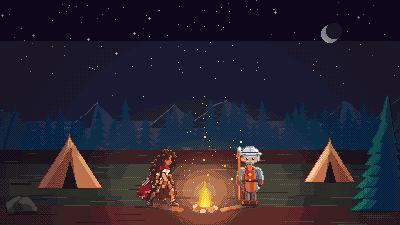
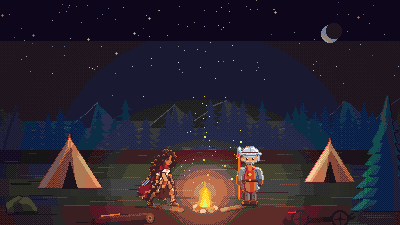
Cenas de história: primeiro plano no capítulo 1 e ilustração na metade do cartão no celular

Changed region(s): [[0.69, 0.9333, 0.9, 1.0], [0.21, 0.9333, 0.39, 1.0], [0.9, 0.9022, 0.93, 0.9333]]

diff --git a/src/art/storyScenes.js b/src/art/storyScenes.js
@@ -619,6 +619,17 @@ function scene1(sc) {
   sc.hero(160, 206, { dir: 'right', weapon: 'back' });
   sc.npc('vigia', 250, 205, { flip: true, rimSide: -1 });
   sc.paint('solid', (c) => campfire(c, 205, 208, 1.1));
+  // Rodada 3: primeiro plano (tronco caído à esquerda e carroça quebrada à direita) para a cena não
+  // ficar vazia sob o céu estrelado; a fogueira acende só a borda deles.
+  sc.paint('solid', (c) => {
+    line(c, 96, 223, 150, 219, '#1c121c', 10); line(c, 98, 220, 148, 216, '#391f21', 6); line(c, 100, 218, 146, 214, '#5d2c28', 2);
+    ell(c, 150, 218, 4, 5, '#5d2c28'); ell(c, 150, 218, 2.4, 3, '#8a4836'); ell(c, 150, 218, 1, 1.4, '#391f21');
+    line(c, 118, 214, 112, 206, '#391f21', 2); line(c, 112, 206, 108, 204, '#391f21', 1);
+    line(c, 286, 222, 352, 216, '#1c121c', 7); line(c, 288, 219, 350, 213, '#391f21', 3);
+    for (const x of [300, 340]) { ell(c, x, 219, 9, 9, '#1c121c'); ell(c, x, 219, 7, 7, '#391f21'); ell(c, x, 219, 2, 2, '#1c121c'); line(c, x - 6, 219, x + 6, 219, '#1c121c', 1); line(c, x, 213, x, 225, '#1c121c', 1); }
+    line(c, 352, 216, 372, 206, '#391f21', 2);
+    line(c, 288, 213, 296, 212, '#c64524', 1); line(c, 101, 216, 120, 214, '#e07438', 1);
+  });
   sc.paint('soft', (c) => vignette(c, '#0e071b', 0.5, 205, 190));
   sc.paint('add', (c) => {
     glow(c, 205, 190, 150, '#e07438', 0.42, 0.7);

diff --git a/src/quest.css b/src/quest.css
@@ -764,7 +764,12 @@ body.is-phone .quest-tracker h3 {
 @media (max-width: 560px) and (orientation: portrait) {
   .quest-chapter__card {
     grid-template-columns: 1fr;
-    grid-template-rows: 38% minmax(0, 1fr);
+    /* Rodada 3: a ilustração ocupa metade do cartão (antes 38 % e sobrava cartão vazio embaixo). */
+    grid-template-rows: 50% minmax(0, 1fr);
+  }
+
+  .quest-chapter__art img {
+    object-position: 50% 72%;
   }
 }
 
